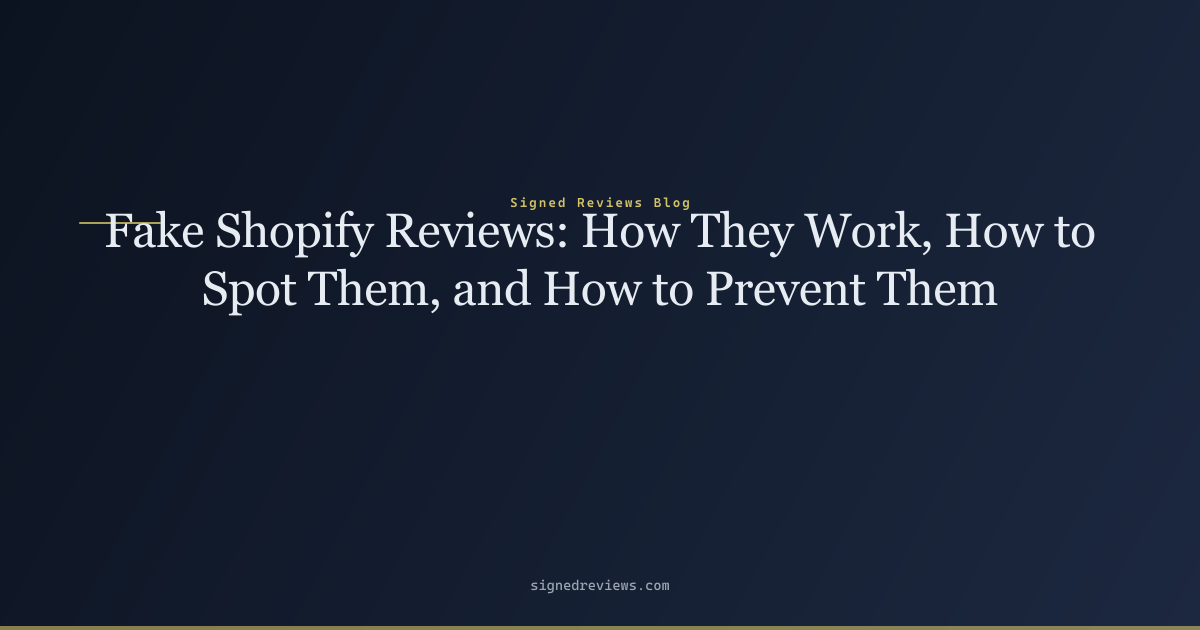
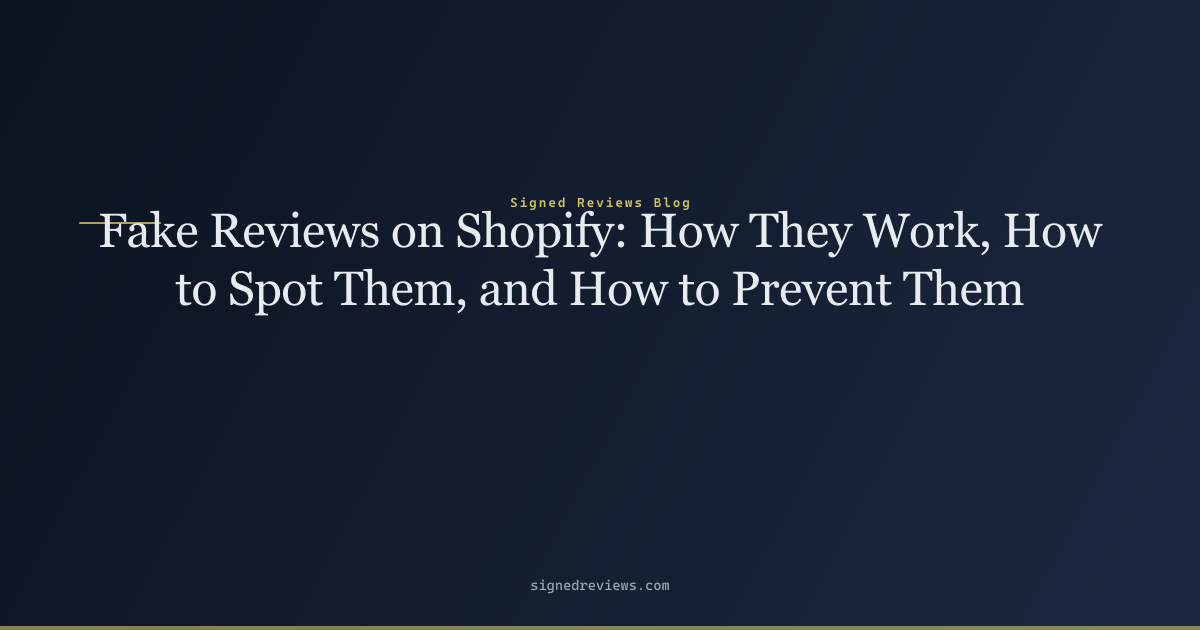
SEO: target 'fake reviews on shopify' on fake-shopify-reviews post

Changed region(s): [[0.0617, 0.3317, 0.925, 0.5127]]

diff --git a/blog/fake-shopify-reviews/index.html b/blog/fake-shopify-reviews/index.html
@@ -3,20 +3,20 @@
 <head>
   <meta charset="UTF-8">
   <meta name="viewport" content="width=device-width, initial-scale=1.0">
-  <title>Fake Shopify Reviews: How They Work, How to Spot Them, and How to Prevent Them — Signed Reviews Blog</title>
+  <title>Fake Reviews on Shopify: How They Work, How to Spot Them, and How to Prevent Them — Signed Reviews Blog</title>
   <meta name="description" content="1. Verification is only as strong as the weakest app. A merchant can choose a review app with minimal or no verification, and Shopify has no platform-level mech">
   <link rel="canonical" href="https://signedreviews.com/blog/fake-shopify-reviews/">
   <meta name="robots" content="index, follow">
   <meta name="theme-color" content="#0c1320">
 
   <meta property="og:type" content="website">
-  <meta property="og:title" content="Fake Shopify Reviews: How They Work, How to Spot Them, and How to Prevent Them — Signed Reviews Blog">
+  <meta property="og:title" content="Fake Reviews on Shopify: How They Work, How to Spot Them, and How to Prevent Them — Signed Reviews Blog">
   <meta property="og:description" content="1. Verification is only as strong as the weakest app. A merchant can choose a review app with minimal or no verification, and Shopify has no platform-level mech">
   <meta property="og:url" content="https://signedreviews.com/blog/fake-shopify-reviews/">
   <meta property="og:site_name" content="Signed Reviews">
   <meta property="og:image" content="https://signedreviews.com/images/SignedReviews_full_logo.png">
   <meta name="twitter:card" content="summary_large_image">
-  <meta name="twitter:title" content="Fake Shopify Reviews: How They Work, How to Spot Them, and How to Prevent Them — Signed Reviews Blog">
+  <meta name="twitter:title" content="Fake Reviews on Shopify: How They Work, How to Spot Them, and How to Prevent Them — Signed Reviews Blog">
   <meta name="twitter:description" content="1. Verification is only as strong as the weakest app. A merchant can choose a review app with minimal or no verification, and Shopify has no platform-level mech">
 
   <link rel="icon" href="/SignedReviews/favicon.svg" type="image/svg+xml">
@@ -483,7 +483,7 @@ main { padding: 0; }
     })();
   </script>
 
-  <script type="application/ld+json">{"@context":"https://schema.org","@type":"BlogPosting","headline":"Fake Shopify Reviews: How They Work, How to Spot Them, and How to Prevent Them","description":"1. Verification is only as strong as the weakest app. A merchant can choose a review app with minimal or no verification, and Shopify has no platform-level mech","datePublished":"2026-07-24 ·","author":{"@type":"Organization","name":"Signed Reviews"},"publisher":{"@type":"Organization","name":"Signed Reviews","logo":{"@type":"ImageObject","url":"https://signedreviews.com/images/SignedReviews_logo_only.png"}}}</script>
+  <script type="application/ld+json">{"@context":"https://schema.org","@type":"BlogPosting","headline":"Fake Reviews on Shopify: How They Work, How to Spot Them, and How to Prevent Them","description":"1. Verification is only as strong as the weakest app. A merchant can choose a review app with minimal or no verification, and Shopify has no platform-level mech","datePublished":"2026-07-24 ·","author":{"@type":"Organization","name":"Signed Reviews"},"publisher":{"@type":"Organization","name":"Signed Reviews","logo":{"@type":"ImageObject","url":"https://signedreviews.com/images/SignedReviews_logo_only.png"}}}</script>
 </head>
 <body>
   <a class="skip-link" href="#main">Skip to main content</a>
@@ -524,7 +524,7 @@ main { padding: 0; }
     <section class="page-hero">
       <div class="page-hero-inner">
         <span class="eyebrow">Blog</span>
-        <h1>Fake Shopify Reviews: How They Work, How to Spot Them, and How to Prevent Them</h1>
+        <h1>Fake Reviews on Shopify: How They Work, How to Spot Them, and How to Prevent Them</h1>
         <p>1. Verification is only as strong as the weakest app. A merchant can choose a review app with minimal or no verification, and Shopify has no platform-level mech</p>
       </div>
     </section>
@@ -532,6 +532,7 @@ main { padding: 0; }
       <article class="prose" style="max-width: var(--max-prose)">
       <p class="post-meta" style="color:var(--muted);font-size:.9rem;margin-bottom:1.5rem;">2026-07-24 ·</p>
       <p>Shopify powers roughly 10% of U.S. e-commerce. With millions of merchants and over 13,000 apps in the App Store, it&#39;s also a significant target for fake-review operations. The problem isn&#39;t just Amazon&#39;s anymore — fake reviews on Shopify stores are rising, and Shopify&#39;s architecture makes certain kinds of fake-review fraud uniquely difficult to detect.</p>
+<p>Fake reviews on Shopify exploit a structural weakness: the platform delegates verification to third-party apps with inconsistent standards. Here&#39;s how the schemes work, how to spot them, and how to stop them.</p>
 <hr>
 <h2 id="why-shopify-stores-are-vulnerable"><a class="anchor" href="#why-shopify-stores-are-vulnerable" aria-label="Permalink to Why Shopify stores are vulnerable">#</a> Why Shopify stores are vulnerable</h2>
 <p>Shopify&#39;s review system is <strong>app-based, not platform-native.</strong> Unlike Amazon, where every review goes through Amazon&#39;s own verification and fraud-detection pipeline, Shopify relies on third-party review apps — Judge.me, Yotpo, Loox, Okendo, Stamped.io, and dozens of others. Each app has its own verification model, its own fraud detection, and its own definition of what &quot;verified&quot; means.</p>
@@ -602,7 +603,7 @@ main { padding: 0; }
 </tbody></table>
 <p>The fundamental gap: <strong>Shopify secures the payment and fulfillment pipeline, not the review pipeline.</strong> Review authenticity is delegated to third-party apps, each with its own (variable) verification standards. There&#39;s no platform-wide &quot;is this review genuine?&quot; check, because Shopify doesn&#39;t control the review layer.</p>
 <hr>
-<h2 id="how-to-spot-fake-reviews-on-a-shopify-store"><a class="anchor" href="#how-to-spot-fake-reviews-on-a-shopify-store" aria-label="Permalink to How to spot fake reviews on a Shopify store">#</a> How to spot fake reviews on a Shopify store</h2>
+<h2 id="how-to-spot-fake-reviews-on-shopify"><a class="anchor" href="#how-to-spot-fake-reviews-on-shopify" aria-label="Permalink to How to spot fake reviews on Shopify">#</a> How to spot fake reviews on Shopify</h2>
 <p>When you&#39;re shopping on a Shopify store:</p>
 <ol>
 <li><strong>Check which review app the store uses.</strong> Look for the app&#39;s branding in the review section (often a subtle &quot;Powered by Judge.me&quot; or similar). Then check that app&#39;s verification documentation — what does their &quot;Verified Buyer&quot; badge actually mean?</li>
@@ -623,13 +624,13 @@ main { padding: 0; }
 </ol>
 <hr>
 <h2 id="the-structural-fix-move-verification-upstream"><a class="anchor" href="#the-structural-fix-move-verification-upstream" aria-label="Permalink to The structural fix: move verification upstream">#</a> The structural fix: move verification upstream</h2>
-<p>Every fake-review method on Shopify exploits the same weakness: <strong>the review app trusts data the merchant can control.</strong> Shopify orders, customer lists, discount codes — these are all under the merchant&#39;s administrative control.</p>
+<p>Every method for generating fake reviews on Shopify exploits the same weakness: <strong>the review app trusts data the merchant can control.</strong> Shopify orders, customer lists, discount codes — these are all under the merchant&#39;s administrative control.</p>
 <p>The only way to structurally prevent fake reviews is to verify against something the merchant <strong>cannot</strong> control: the payment processor. A Stripe charge is an independent record. The merchant can&#39;t create one without paying real Stripe fees. They can&#39;t delete one. They can&#39;t modify the amount, the customer email, or the charge status. And if they refund it, the review platform receives a <code>charge.refunded</code> webhook and hides the review automatically.</p>
-<p>This is processor-attested verification (Level 4 on the <a href="/learn/what-does-verified-buyer-mean/">verification spectrum</a>). No Shopify review app offers it. Only platforms that integrate directly with Stripe do — and that&#39;s a small list.</p>
-<p>For Shopify merchants who process payments through Stripe (including Shopify Payments, which runs on Stripe&#39;s infrastructure), the question isn&#39;t whether you can prevent fake reviews on your store. It&#39;s whether your review app verifies against the one data source you can&#39;t fabricate.</p>
+<p>This is processor-attested verification (Level 4 on the <a href="/learn/what-does-verified-buyer-mean/">verification spectrum</a>). No Shopify review app offers it. Only platforms that integrate directly with Stripe do — and that&#39;s a small list. <a href="/how-it-works/">See how it works</a> for the full technical breakdown.</p>
+<p>For Shopify merchants who process payments through Stripe (including Shopify Payments, which runs on Stripe&#39;s infrastructure), the question isn&#39;t whether you can prevent fake reviews on your store. It&#39;s whether your review app verifies against the one data source you can&#39;t fabricate. <a href="/pricing/">See pricing</a> for plans that include processor-attested verification.</p>
 <hr>
 <h2 id="bottom-line"><a class="anchor" href="#bottom-line" aria-label="Permalink to Bottom line">#</a> Bottom line</h2>
-<p>Fake Shopify reviews work because the verification model trusts the merchant&#39;s own data. Shopify&#39;s app-based review ecosystem means verification quality is uneven and invisible to consumers. As a shopper, understanding which review app a store uses — and what its &quot;Verified&quot; badge actually means — is the simplest way to calibrate your trust. As a merchant, choosing a review platform that verifies against something you can&#39;t control is the simplest way to make fake reviews structurally impossible.</p>
+<p>Fake reviews on Shopify work because the verification model trusts the merchant&#39;s own data. Shopify&#39;s app-based review ecosystem means verification quality is uneven and invisible to consumers. As a shopper, understanding which review app a store uses — and what its &quot;Verified&quot; badge actually means — is the simplest way to calibrate your trust. As a merchant, choosing a review platform that verifies against something you can&#39;t control is the simplest way to make fake reviews structurally impossible.</p>
 <p><strong>Further reading:</strong></p>
 <ul>
 <li><a href="/learn/how-fake-reviews-work/">How Fake Reviews Work</a> — the full ecosystem: click farms, AI generation, brushing, economics</li>

diff --git a/blog/index.html b/blog/index.html
@@ -616,7 +616,7 @@ main { padding: 0; }
       <p style="margin:0;color:var(--text);font-size:.95rem;">Set up in under a minute — that's how Stripe review verification works. No API keys, no webhooks, no server changes. See the pricing page for plan details.</p>
     </div>
     <div style="margin-bottom:1.5rem;padding-bottom:1.5rem;border-bottom:1px solid var(--border);">
-      <h2 style="margin:0 0 .3rem;font-size:1.25rem;"><a href="/SignedReviews/blog/fake-shopify-reviews/" style="text-decoration:none;">Fake Shopify Reviews: How They Work, How to Spot Them, and How to Prevent Them</a></h2>
+      <h2 style="margin:0 0 .3rem;font-size:1.25rem;"><a href="/SignedReviews/blog/fake-shopify-reviews/" style="text-decoration:none;">Fake Reviews on Shopify: How They Work, How to Spot Them, and How to Prevent Them</a></h2>
       <p class="post-meta" style="color:var(--muted);font-size:.85rem;margin:0 0 .4rem;">2026-07-24 ·</p>
       <p style="margin:0;color:var(--text);font-size:.95rem;">1. Verification is only as strong as the weakest app. A merchant can choose a review app with minimal or no verification, and Shopify has no platform-level mech</p>
     </div>

diff --git a/files/blog/fake-shopify-reviews.md b/files/blog/fake-shopify-reviews.md
@@ -1,10 +1,12 @@
-# Fake Shopify Reviews: How They Work, How to Spot Them, and How to Prevent Them
+# Fake Reviews on Shopify: How They Work, How to Spot Them, and How to Prevent Them
 
 **Published:** 2026-07-24 · **Author:** Signed Reviews Team · **Description:** Fake reviews on Shopify are a growing problem — brushing schemes, incentivized reviews, and app-based manipulation. How they work, how Shopify fights them, and the structural fix that makes them impossible.**
 
 ---
 
 Shopify powers roughly 10% of U.S. e-commerce. With millions of merchants and over 13,000 apps in the App Store, it's also a significant target for fake-review operations. The problem isn't just Amazon's anymore — fake reviews on Shopify stores are rising, and Shopify's architecture makes certain kinds of fake-review fraud uniquely difficult to detect.
+
+Fake reviews on Shopify exploit a structural weakness: the platform delegates verification to third-party apps with inconsistent standards. Here's how the schemes work, how to spot them, and how to stop them.
 
 ---
 
@@ -74,7 +76,7 @@ The fundamental gap: **Shopify secures the payment and fulfillment pipeline, not
 
 ---
 
-## How to spot fake reviews on a Shopify store
+## How to spot fake reviews on Shopify
 
 When you're shopping on a Shopify store:
 
@@ -100,19 +102,19 @@ If you're a Shopify merchant, fake reviews hurt you too — they damage consumer
 
 ## The structural fix: move verification upstream
 
-Every fake-review method on Shopify exploits the same weakness: **the review app trusts data the merchant can control.** Shopify orders, customer lists, discount codes — these are all under the merchant's administrative control.
+Every method for generating fake reviews on Shopify exploits the same weakness: **the review app trusts data the merchant can control.** Shopify orders, customer lists, discount codes — these are all under the merchant's administrative control.
 
 The only way to structurally prevent fake reviews is to verify against something the merchant **cannot** control: the payment processor. A Stripe charge is an independent record. The merchant can't create one without paying real Stripe fees. They can't delete one. They can't modify the amount, the customer email, or the charge status. And if they refund it, the review platform receives a `charge.refunded` webhook and hides the review automatically.
 
-This is processor-attested verification (Level 4 on the [verification spectrum](/learn/what-does-verified-buyer-mean/)). No Shopify review app offers it. Only platforms that integrate directly with Stripe do — and that's a small list.
+This is processor-attested verification (Level 4 on the [verification spectrum](/learn/what-does-verified-buyer-mean/)). No Shopify review app offers it. Only platforms that integrate directly with Stripe do — and that's a small list. [See how it works](/how-it-works/) for the full technical breakdown.
 
-For Shopify merchants who process payments through Stripe (including Shopify Payments, which runs on Stripe's infrastructure), the question isn't whether you can prevent fake reviews on your store. It's whether your review app verifies against the one data source you can't fabricate.
+For Shopify merchants who process payments through Stripe (including Shopify Payments, which runs on Stripe's infrastructure), the question isn't whether you can prevent fake reviews on your store. It's whether your review app verifies against the one data source you can't fabricate. [See pricing](/pricing/) for plans that include processor-attested verification.
 
 ---
 
 ## Bottom line
 
-Fake Shopify reviews work because the verification model trusts the merchant's own data. Shopify's app-based review ecosystem means verification quality is uneven and invisible to consumers. As a shopper, understanding which review app a store uses — and what its "Verified" badge actually means — is the simplest way to calibrate your trust. As a merchant, choosing a review platform that verifies against something you can't control is the simplest way to make fake reviews structurally impossible.
+Fake reviews on Shopify work because the verification model trusts the merchant's own data. Shopify's app-based review ecosystem means verification quality is uneven and invisible to consumers. As a shopper, understanding which review app a store uses — and what its "Verified" badge actually means — is the simplest way to calibrate your trust. As a merchant, choosing a review platform that verifies against something you can't control is the simplest way to make fake reviews structurally impossible.
 
 **Further reading:**
 - [How Fake Reviews Work](/learn/how-fake-reviews-work/) — the full ecosystem: click farms, AI generation, brushing, economics
